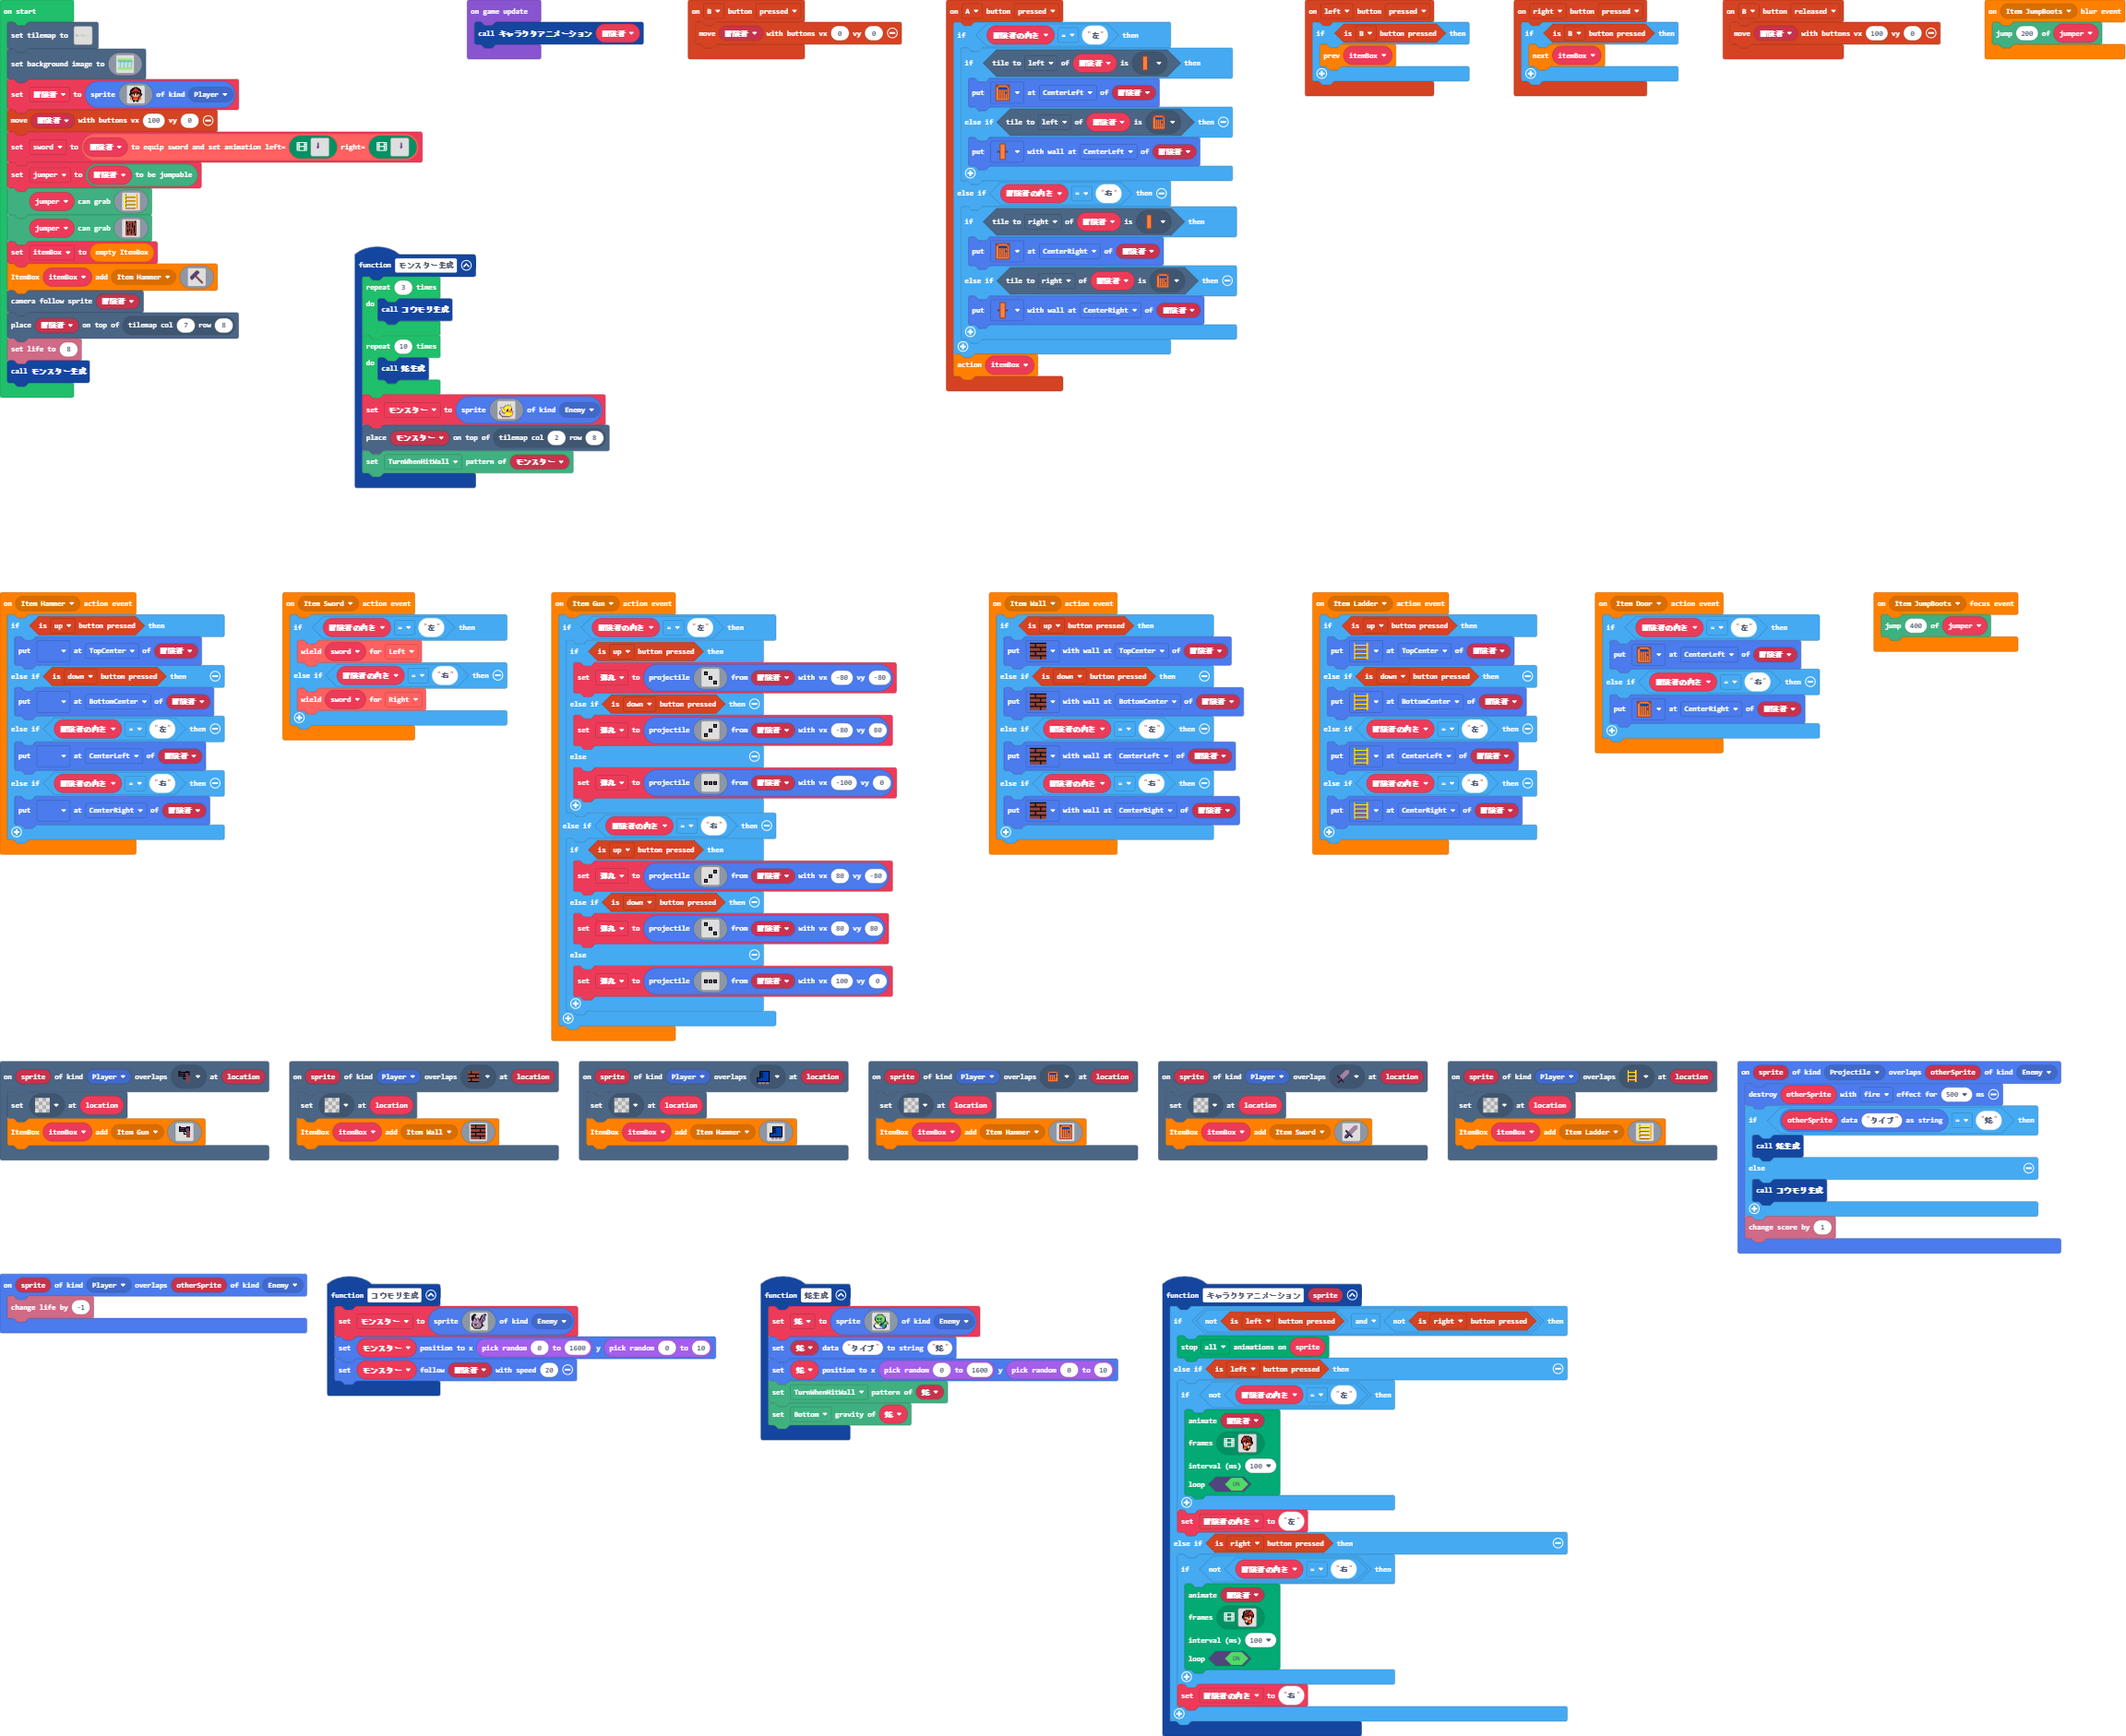
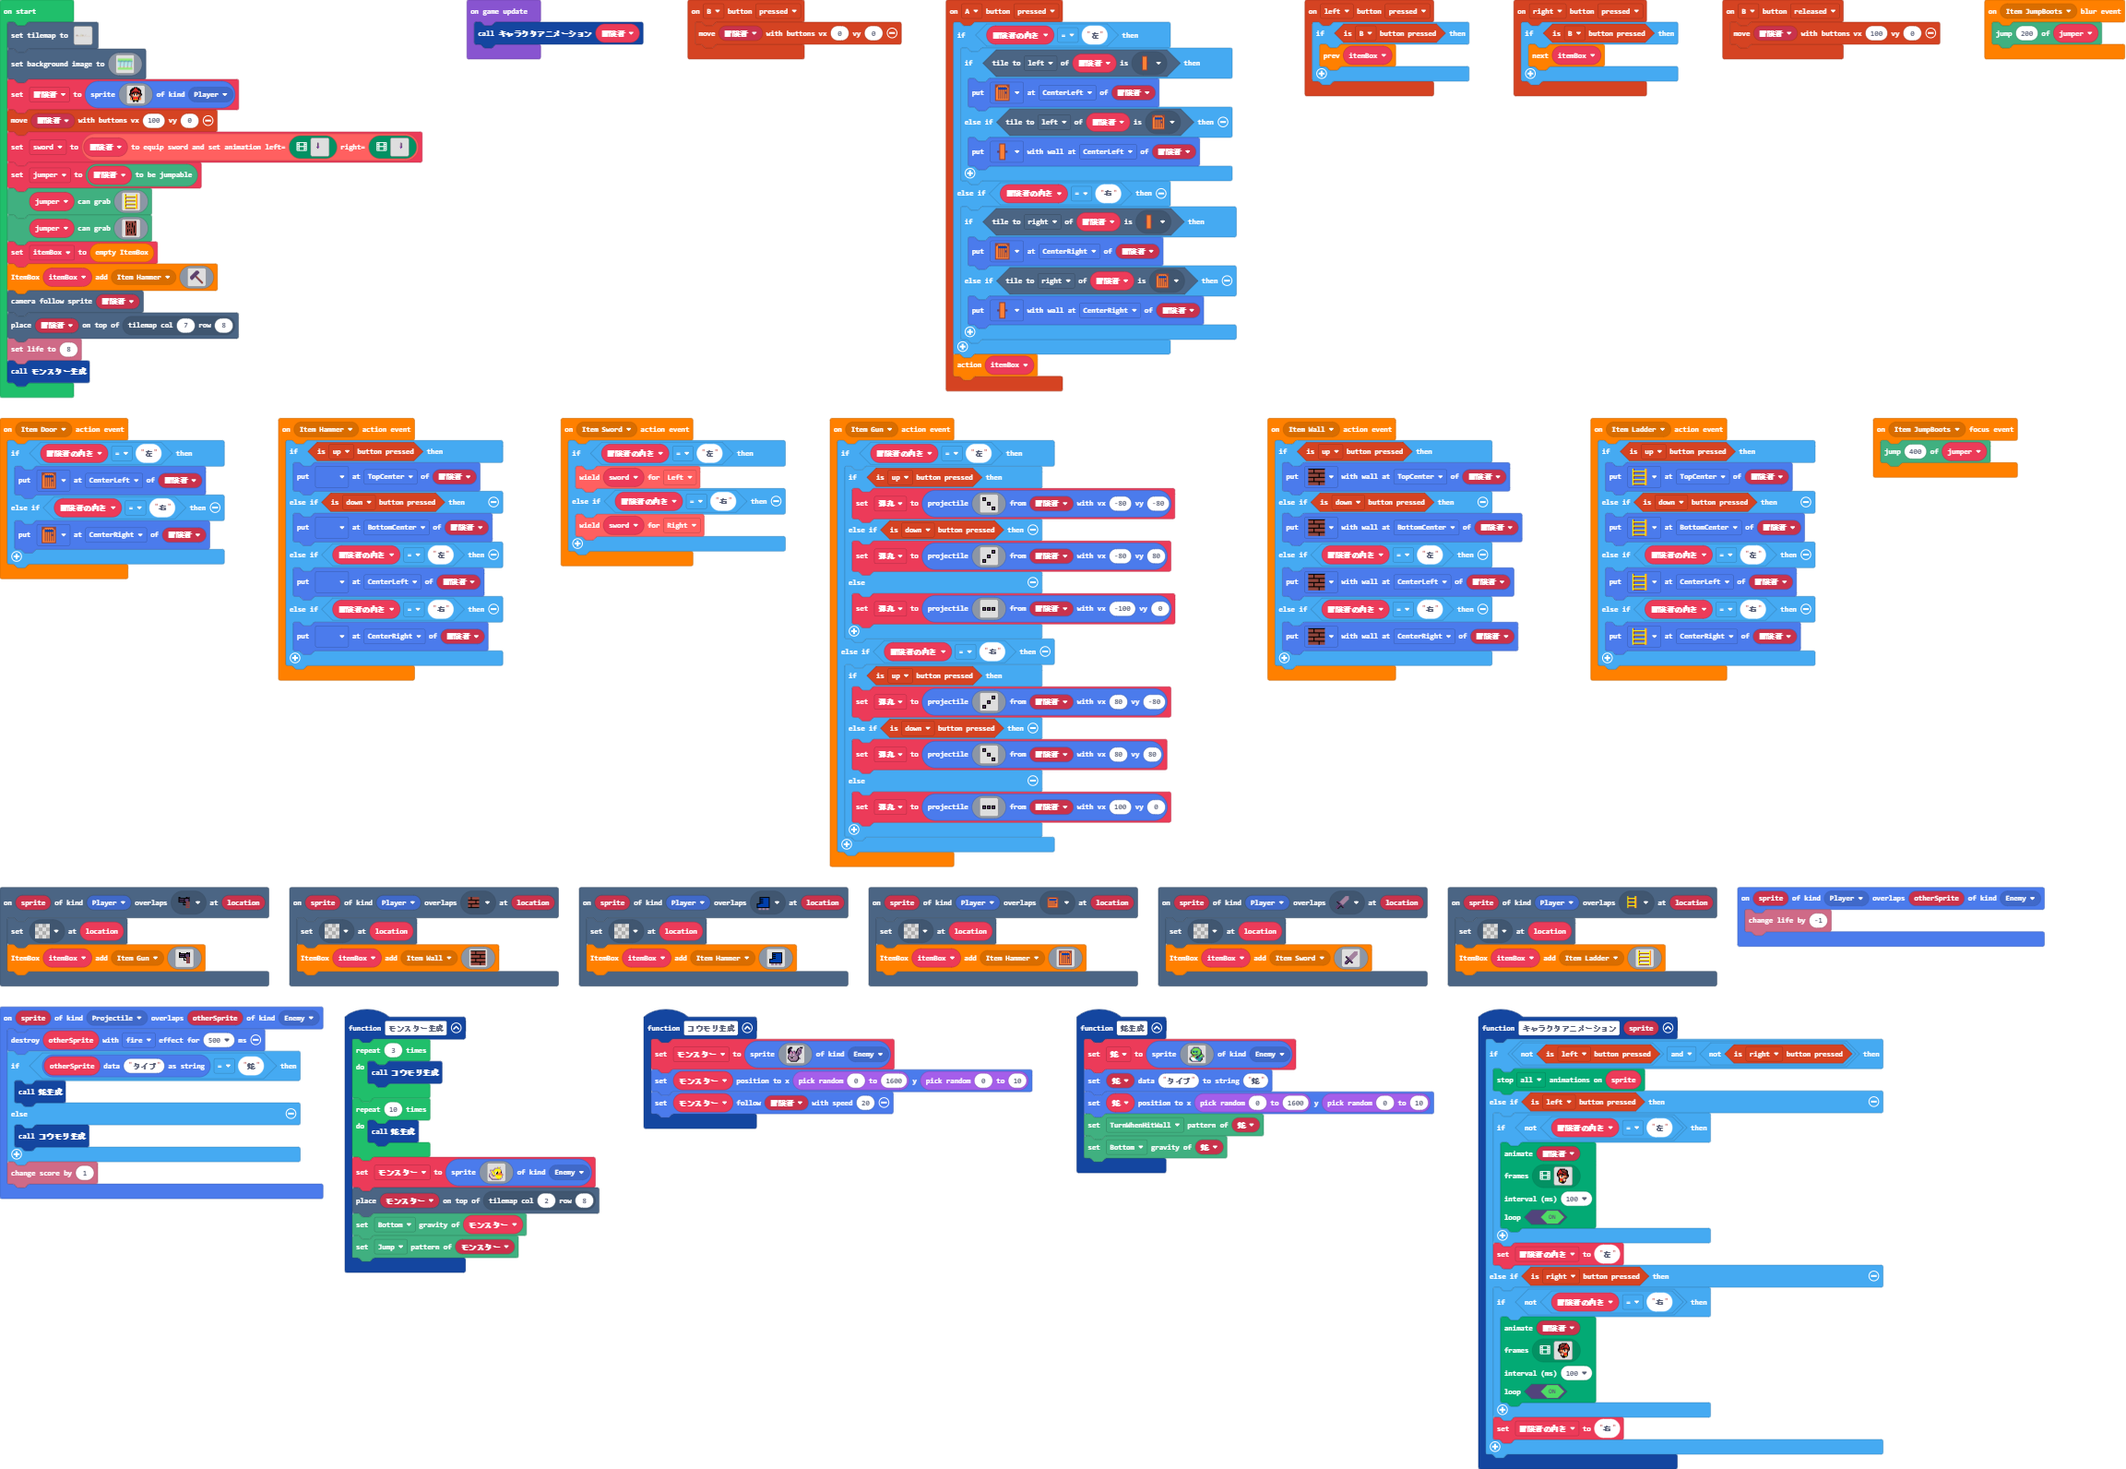
Update pxt.json, main.blocks, main.ts, tilemap.g.jres, tilemap.g.ts, behavior.ts

diff --git a/behavior.ts b/behavior.ts
@@ -14,12 +14,25 @@ namespace behavior {
     //% block="set $gravity gravity of $sprite=variables_get(aEnemy)"
     export function setGravity(sprite: Sprite, gravity: Gravity) {
         sprites.setDataNumber(sprite, "gravity", gravity);
+        if( gravity == Gravity.Bottom ) {
+            sprites.setDataNumber(sprite, "vy", 200);
+        }
     }
 
     game.onUpdate(function () {
         for (let target of sprites.allOfKind(SpriteKind.Enemy)) {
             if (sprites.readDataNumber(target, "gravity") == Gravity.Bottom) {
-                target.vy = 200
+                let vy = sprites.readDataNumber(target, "vy");
+                vy = Math.min(vy+8, 200);
+                sprites.setDataNumber(target, "vy", vy);
+                target.vy = vy;
+            }
+
+            if (sprites.readDataNumber(target, "pattern") == Pattern.Jump) {
+                if (target.isHittingTile(CollisionDirection.Bottom)) {
+                    target.vx = -200;
+                    sprites.setDataNumber(target, "vy", -200);
+                }
             }
         }
     })
@@ -33,15 +46,19 @@ namespace behavior {
         let kind = sprite.kind();
 
         scene.onHitWall(kind, (target, location) => {
-            if (sprites.readDataNumber(target, "pattern") == Pattern.TurnWhenHitWall) {
-                if (target.isHittingTile(CollisionDirection.Left)) {
+            let pattern = sprites.readDataNumber(target, "pattern");
+            switch(pattern) {
+            case Pattern.TurnWhenHitWall:
+                if (target.isHittingTile(CollisionDirection.Left))
                     target.vx = 20
-                } else if (target.isHittingTile(CollisionDirection.Right)) {
+                else if (target.isHittingTile(CollisionDirection.Right))
                     target.vx = -20
-                }
+                break;
             }
         });
     }
+
+
 
     // export class Jumpable {
 

diff --git a/tilemap.g.ts b/tilemap.g.ts
@@ -86,6 +86,25 @@ namespace myTiles {
 2222222222222222222222222222222222222222222222222222222222222222222222222222222222222222222222222222
 2222222222222222222222222222222222222222222222222222222222222222222222222222222222222222222222222222
 `, [myTiles.transparency16,sprites.castle.tilePath5,sprites.castle.tilePath2,sprites.castle.tilePath1,sprites.castle.tilePath3,sprites.castle.tilePath6,sprites.castle.tilePath8,sprites.castle.tilePath9,myTiles.tile2,myTiles.tile1,myTiles.tile3,sprites.builtin.forestTiles0,myTiles.tile4,myTiles.tile6,myTiles.tile7,myTiles.tile8,myTiles.tile9,myTiles.tile10,myTiles.tile12,sprites.castle.tilePath4,sprites.castle.tilePath7], TileScale.Sixteen);
+            case "level4":
+            case "level4":return tiles.createTilemap(hex`1000100000000000000000000000000000000000000000000000000000000000000000000000000000000000000000000000000000000000000000000000000000000000000000000000000000000000000000000000000000000000000000000000000000000000000000000000000000000000000000000000000000000000000000000000000000000000000000000000000000000000000000000000000000000000000000000000000000000000000000000000000000000000000000000000000000000000000000000000000000000000000000000000000000000000000000000000000000000000000000000000000000000000000000000000000000000000`, img`
+. . . . . . . . . . . . . . . . 
+. . . . . . . . . . . . . . . . 
+. . . . . . . . . . . . . . . . 
+. . . . . . . . . . . . . . . . 
+. . . . . . . . . . . . . . . . 
+. . . . . . . . . . . . . . . . 
+. . . . . . . . . . . . . . . . 
+. . . . . . . . . . . . . . . . 
+. . . . . . . . . . . . . . . . 
+. . . . . . . . . . . . . . . . 
+. . . . . . . . . . . . . . . . 
+. . . . . . . . . . . . . . . . 
+. . . . . . . . . . . . . . . . 
+. . . . . . . . . . . . . . . . 
+. . . . . . . . . . . . . . . . 
+. . . . . . . . . . . . . . . . 
+`, [myTiles.transparency16], TileScale.Sixteen);
         }
         return null;
     })

diff --git a/main.ts b/main.ts
@@ -63,7 +63,8 @@ function モンスター生成 () {
         . . . c c c c c c c c b b . . . 
         `, SpriteKind.Enemy)
     tiles.placeOnTile(モンスター, tiles.getTileLocation(2, 8))
-    behavior.setPattern(モンスター, behavior.Pattern.TurnWhenHitWall)
+    behavior.setGravity(モンスター, behavior.Gravity.Bottom)
+    behavior.setPattern(モンスター, behavior.Pattern.Jump)
 }
 itembox.util.onEvent(ItemKind.Door, function () {
     if (冒険者の向き == "左") {
